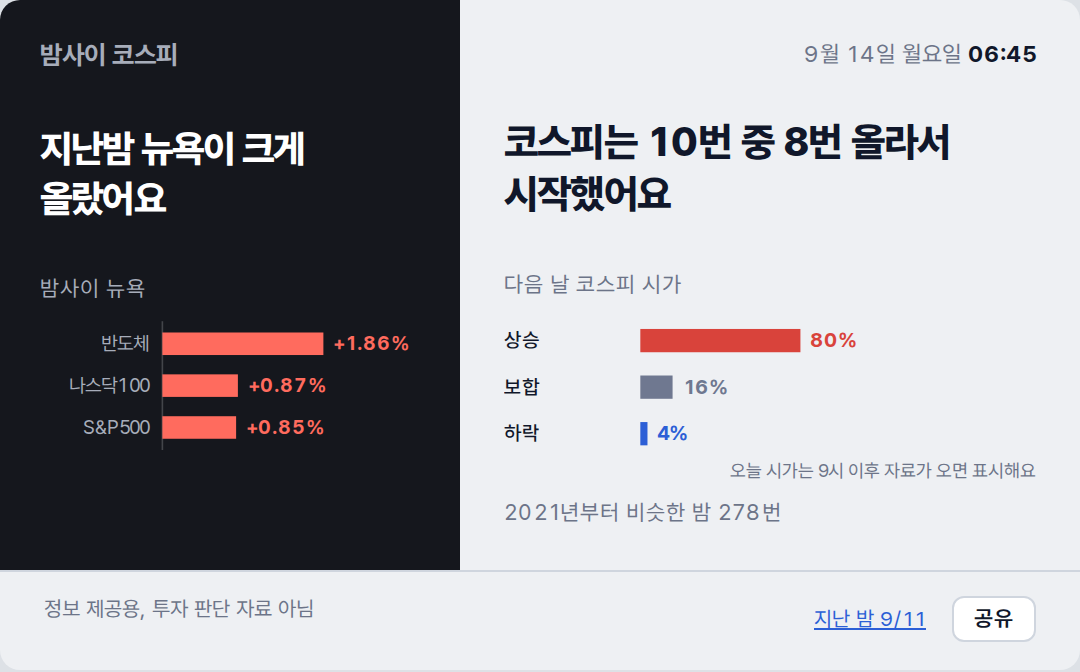
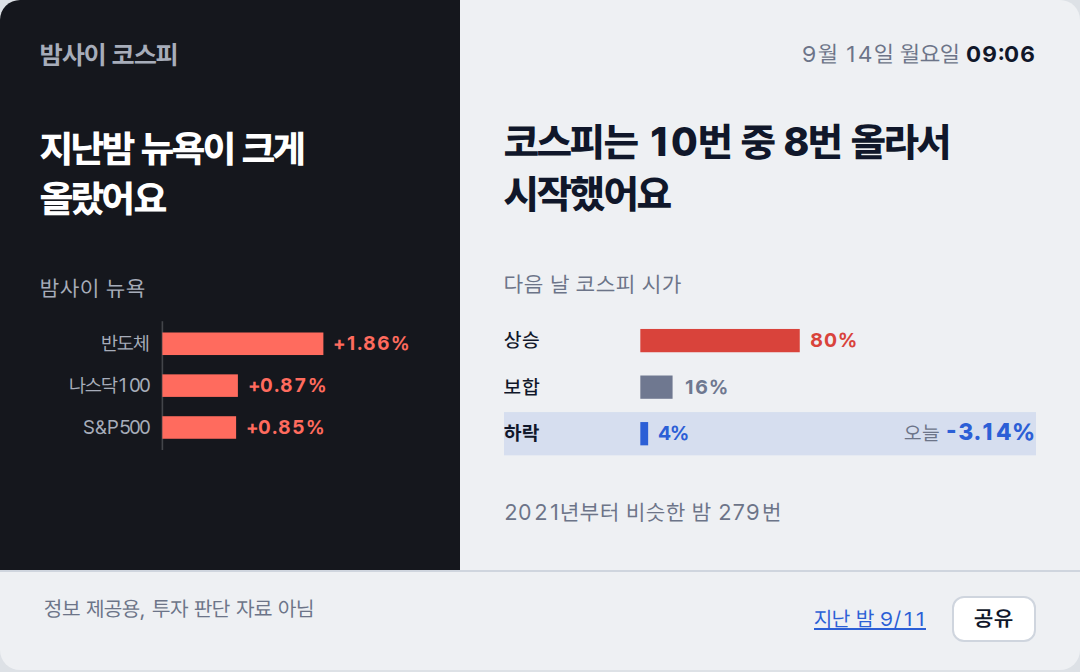
deploy: 75cc4f4932e6d10a8b135168aac73cace504a461

diff --git a/2026-09-14/index.html b/2026-09-14/index.html
@@ -38,18 +38,19 @@ footer a{color:#2C5FD6}
 <rect x="76" y="61" width="45.8" height="14" fill="var(--up)"/>
 <text x="127.8" y="72" fill="var(--up)" font-weight="700">+0.85%</text>
 </svg></section>
-<section class="day"><p class="stamp">9월 14일 월요일 <b>06:45</b></p><p class="claim">코스피는 10번 중 8번 올라서 시작했어요</p><p class="lab">다음 날 코스피 시가</p><svg viewBox="0 0 320 100" xmlns="http://www.w3.org/2000/svg" font-family="var(--sans)" font-size="12">
+<section class="day"><p class="stamp">9월 14일 월요일 <b>09:06</b></p><p class="claim">코스피는 10번 중 8번 올라서 시작했어요</p><p class="lab">다음 날 코스피 시가</p><svg viewBox="0 0 320 100" xmlns="http://www.w3.org/2000/svg" font-family="var(--sans)" font-size="12">
 <text x="0" y="20" fill="var(--ink)" font-weight="500">상승</text>
-<rect x="82" y="9" width="96.3" height="14" fill="var(--up)"/>
-<text x="184.3" y="20" fill="var(--up)" font-weight="700">80%</text>
+<rect x="82" y="9" width="95.9" height="14" fill="var(--up)"/>
+<text x="183.9" y="20" fill="var(--up)" font-weight="700">80%</text>
 <text x="0" y="48" fill="var(--ink)" font-weight="500">보합</text>
 <rect x="82" y="37" width="19.4" height="14" fill="var(--flat)"/>
 <text x="107.4" y="48" fill="var(--flat)" font-weight="700">16%</text>
-<text x="0" y="76" fill="var(--ink)" font-weight="500">하락</text>
-<rect x="82" y="65" width="4.3" height="14" fill="var(--down)"/>
-<text x="92.3" y="76" fill="var(--down)" font-weight="700">4%</text>
-<text x="320" y="98" text-anchor="end" fill="var(--muted)" font-size="11">오늘 시가는 9시 이후 자료가 오면 표시해요</text>
-</svg><p class="cap">2021년부터 비슷한 밤 278번</p></section>
+<rect x="0" y="59" width="320" height="26" fill="var(--down)" opacity=".12"/>
+<text x="0" y="76" fill="var(--ink)" font-weight="700">하락</text>
+<rect x="82" y="65" width="4.7" height="14" fill="var(--down)"/>
+<text x="92.7" y="76" fill="var(--down)" font-weight="700">4%</text>
+<text x="320" y="76" text-anchor="end" fill="var(--ink)"><tspan fill="var(--muted)">오늘 </tspan><tspan font-weight="800" font-size="14" fill="var(--down)">-3.14%</tspan></text>
+</svg><p class="cap">2021년부터 비슷한 밤 279번</p></section>
 <footer><span>정보 제공용, 투자 판단 자료 아님</span><span style="white-space:nowrap"><a href="../2026-09-11/">지난 밤 9/11</a> <button class="share" type="button">공유</button></span></footer>
 <script>
 /* 공유: Web Share가 있으면 시스템 공유 시트, 없으면 링크 복사. 링크는 이 날짜 페이지(OG 카드 붙음) */

diff --git a/index.html b/index.html
@@ -38,18 +38,19 @@ footer a{color:#2C5FD6}
 <rect x="76" y="61" width="45.8" height="14" fill="var(--up)"/>
 <text x="127.8" y="72" fill="var(--up)" font-weight="700">+0.85%</text>
 </svg></section>
-<section class="day"><p class="stamp">9월 14일 월요일 <b>06:45</b></p><p class="claim">코스피는 10번 중 8번 올라서 시작했어요</p><p class="lab">다음 날 코스피 시가</p><svg viewBox="0 0 320 100" xmlns="http://www.w3.org/2000/svg" font-family="var(--sans)" font-size="12">
+<section class="day"><p class="stamp">9월 14일 월요일 <b>09:06</b></p><p class="claim">코스피는 10번 중 8번 올라서 시작했어요</p><p class="lab">다음 날 코스피 시가</p><svg viewBox="0 0 320 100" xmlns="http://www.w3.org/2000/svg" font-family="var(--sans)" font-size="12">
 <text x="0" y="20" fill="var(--ink)" font-weight="500">상승</text>
-<rect x="82" y="9" width="96.3" height="14" fill="var(--up)"/>
-<text x="184.3" y="20" fill="var(--up)" font-weight="700">80%</text>
+<rect x="82" y="9" width="95.9" height="14" fill="var(--up)"/>
+<text x="183.9" y="20" fill="var(--up)" font-weight="700">80%</text>
 <text x="0" y="48" fill="var(--ink)" font-weight="500">보합</text>
 <rect x="82" y="37" width="19.4" height="14" fill="var(--flat)"/>
 <text x="107.4" y="48" fill="var(--flat)" font-weight="700">16%</text>
-<text x="0" y="76" fill="var(--ink)" font-weight="500">하락</text>
-<rect x="82" y="65" width="4.3" height="14" fill="var(--down)"/>
-<text x="92.3" y="76" fill="var(--down)" font-weight="700">4%</text>
-<text x="320" y="98" text-anchor="end" fill="var(--muted)" font-size="11">오늘 시가는 9시 이후 자료가 오면 표시해요</text>
-</svg><p class="cap">2021년부터 비슷한 밤 278번</p></section>
+<rect x="0" y="59" width="320" height="26" fill="var(--down)" opacity=".12"/>
+<text x="0" y="76" fill="var(--ink)" font-weight="700">하락</text>
+<rect x="82" y="65" width="4.7" height="14" fill="var(--down)"/>
+<text x="92.7" y="76" fill="var(--down)" font-weight="700">4%</text>
+<text x="320" y="76" text-anchor="end" fill="var(--ink)"><tspan fill="var(--muted)">오늘 </tspan><tspan font-weight="800" font-size="14" fill="var(--down)">-3.14%</tspan></text>
+</svg><p class="cap">2021년부터 비슷한 밤 279번</p></section>
 <footer><span>정보 제공용, 투자 판단 자료 아님</span><span style="white-space:nowrap"><a href="./2026-09-11/">지난 밤 9/11</a> <button class="share" type="button">공유</button></span></footer>
 <script>
 /* 공유: Web Share가 있으면 시스템 공유 시트, 없으면 링크 복사. 링크는 이 날짜 페이지(OG 카드 붙음) */
